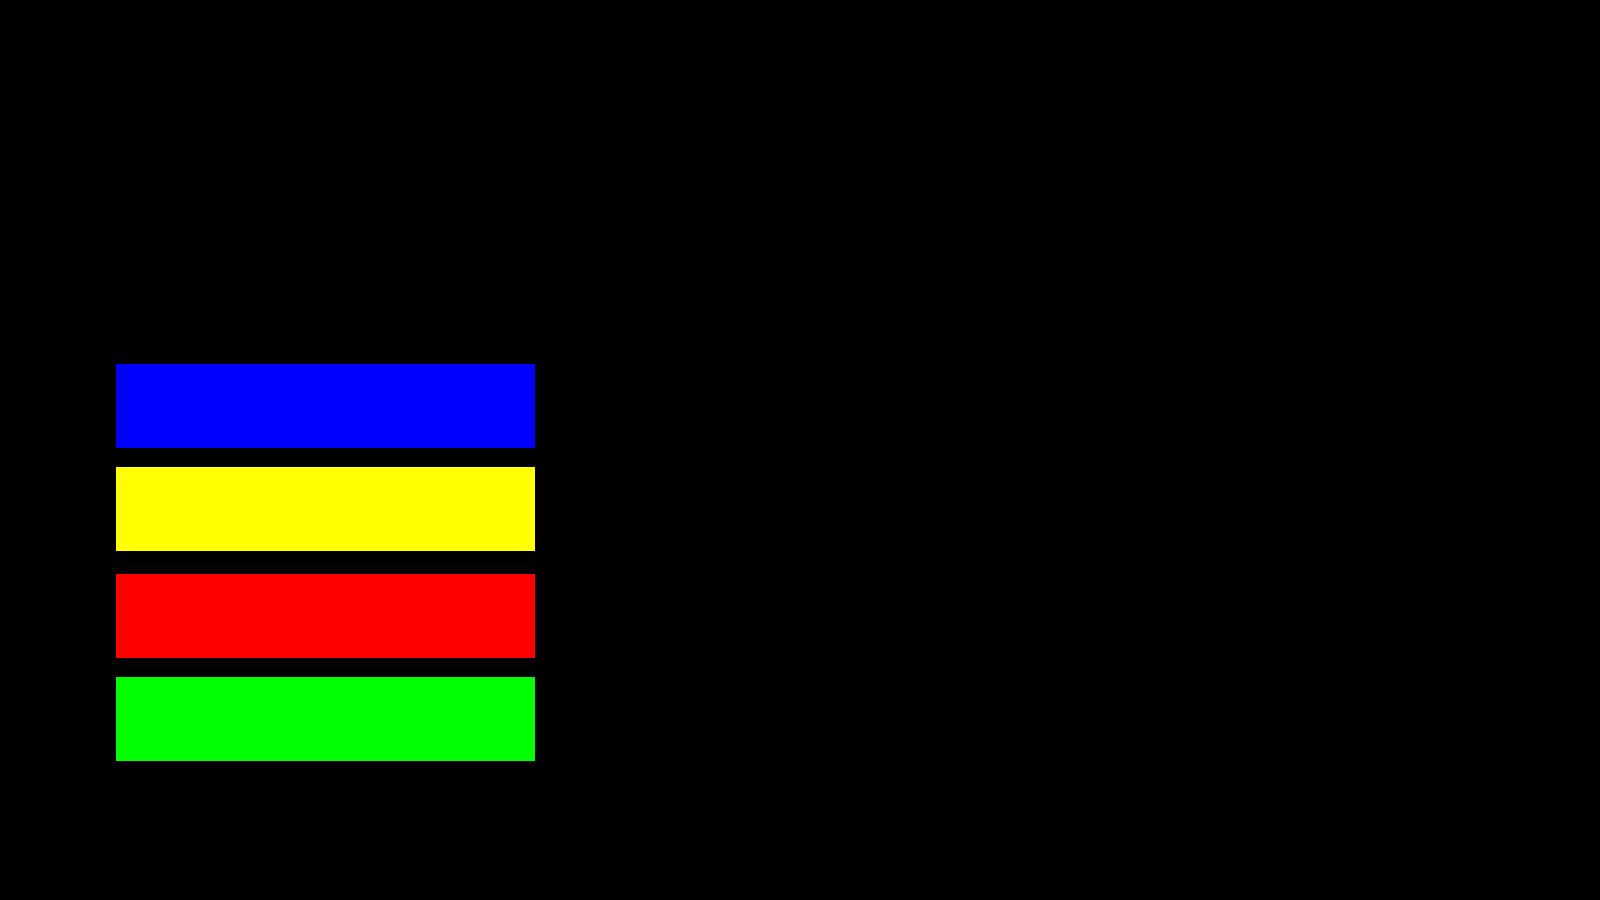
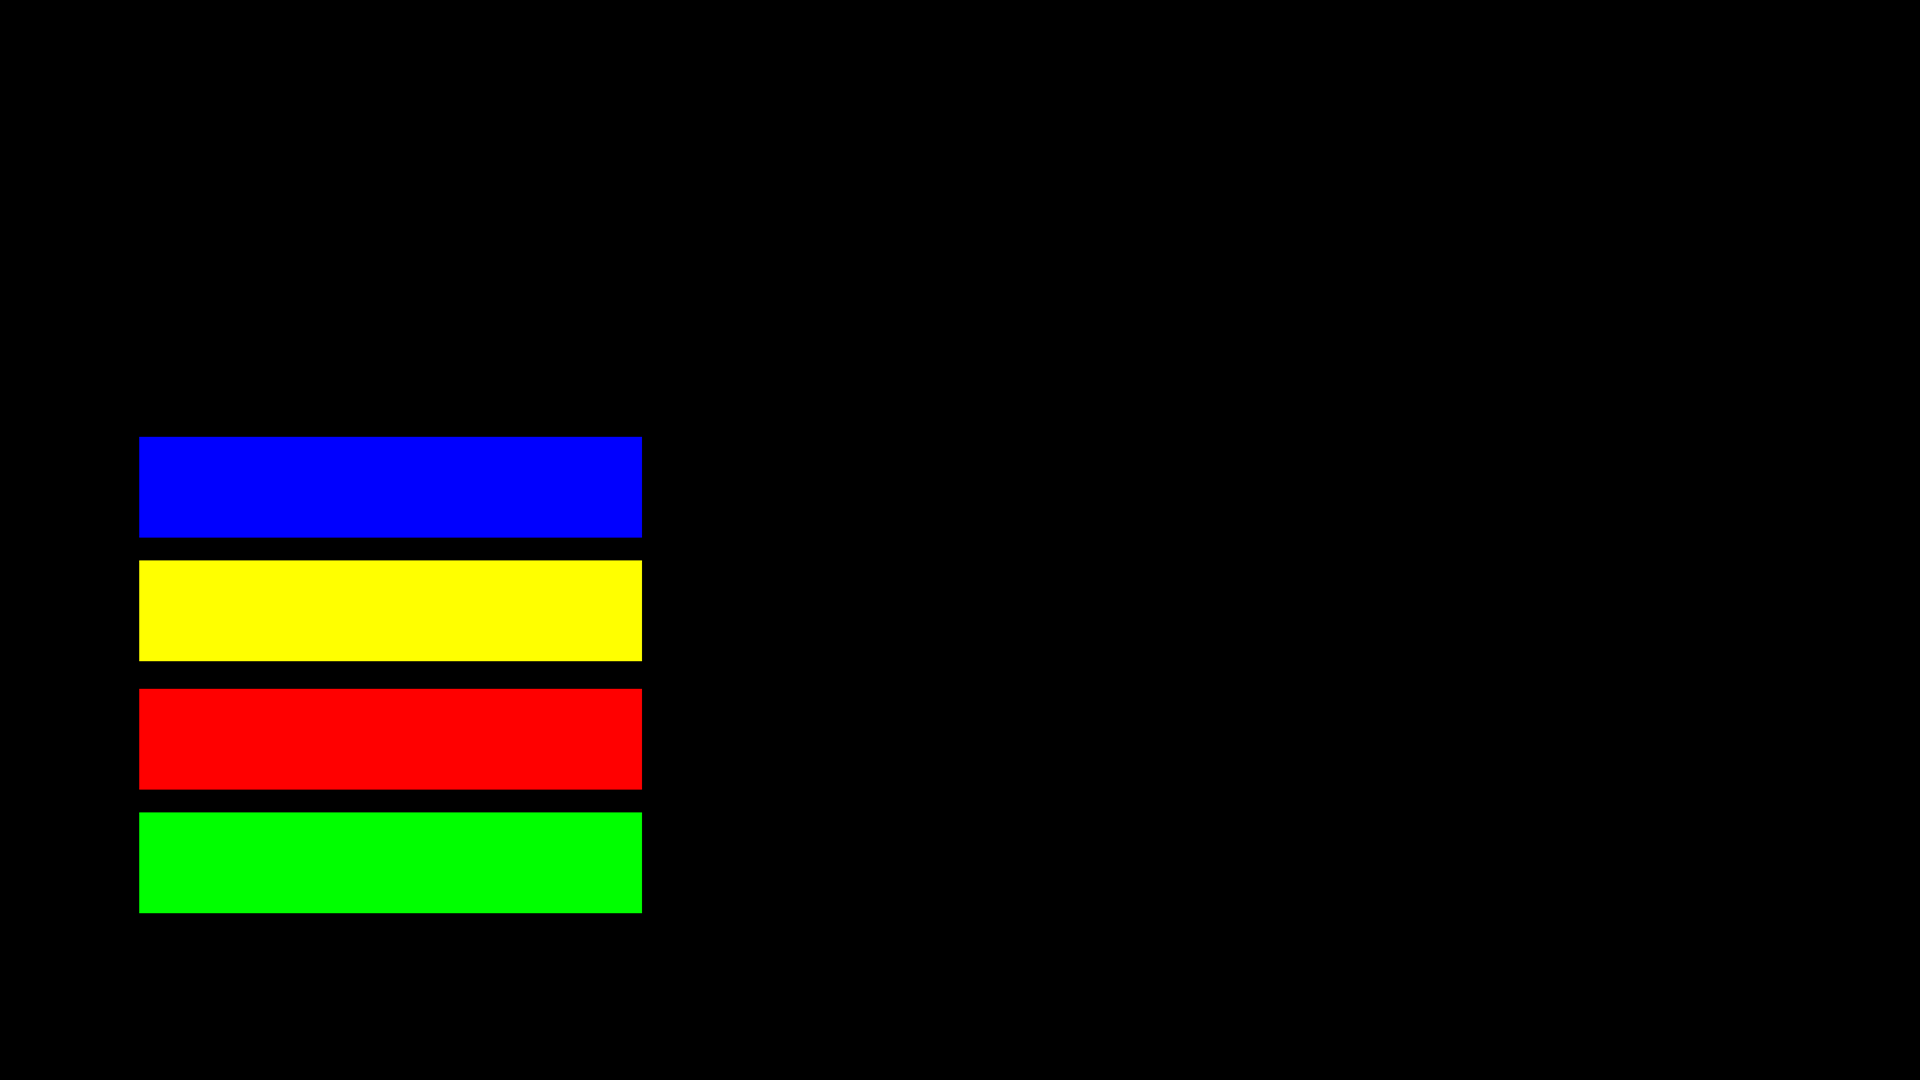
Atualizado Sistema de Resolução

Changed region(s): [[0.0938, 0.4978, 0.3125, 0.5289]]

diff --git a/Telas.py b/Telas.py
@@ -1,24 +1,55 @@
 #Arquivo que controla as telas do Jogo
 import pygame
-from Default import *
+from Configs import *
 from abc import ABC, abstractmethod
+
+#Função para adequar as Imagens do Tipo Objeto a Dimensão do Jogo
+def CriarObjeto(Imagem, Multiplicador):
+	if type(Imagem) != pygame.Surface:
+		raise TypeError("Imagem não é um Surface")
+	elif type(Multiplicador) != float and type(Multiplicador) != int:
+		raise TypeError("Multiplicador não é um Número")
+	else:
+		#Dimensiona a Imagem
+		return pygame.transform.scale(Imagem, (int(Imagem.get_size()[0]*Multiplicador), int(Imagem.get_size()[1]*Multiplicador)))
+
+#Função para criar ou alterar o Plano de Fundo do Jogo
+def AtualizarPlanodeFundo(Tela, Imagem, Multiplicador):
+	if type(Tela) != pygame.Surface:
+		raise TypeError("Tela não é um Surface")
+	elif type(Imagem) != pygame.Surface:
+		raise TypeError("Imagem não é um Surface")
+	elif type(Multiplicador) != float and type(Multiplicador) != int:
+		raise TypeError("Multiplicador não é um Número")
+	elif Imagem.get_size()[0] != 1920 or Imagem.get_size()[1] != 1080:
+		raise Exception("A Imagem de Plano de Fundo tem que ser 1920 por 1080")
+	else:
+		#Dimensiona a Imagem
+		Imagem = pygame.transform.scale(Imagem, (int(Imagem.get_size()[0]*Multiplicador), int(Imagem.get_size()[1]*Multiplicador)))
+
+		#Configura a Tela
+		Tela.fill((0, 0, 0, 255)) #PRETO
+		Tela.blit(Imagem, Imagem.get_rect())
+		pygame.display.flip()
+
+		return Tela
 
 class MenuMaker(ABC):
 
-	def __init__(self, Imagens, Tamanho):
-		if "Imagem" not in Imagens or "Localização Dos Botões" not in Imagens or Imagens["Imagem"][1] != Imagens["Localização Dos Botões"][1]:
-			print("Erro-Imagem:", not("Imagem" not in Imagens))
-			print("Erro-Localização-Dos-Botões:", not("Localização Dos Botões" not in Imagens))
-			print("Erro de Tamanho:", not(Imagens["Imagem"][1] != Imagens["Localizaçã Dos Botões"][1]))
-			raise Error()
+	def __init__(self, Imagens):
+		if "Plano de fundo" not in Imagens:
+			raise FileNotFoundError("Não foi possivel identificar o arquivo do plano de fundo")
+		elif "Localização dos botões" not in Imagens:
+			raise FileNotFoundError("Não foi possivel identificar o arquivo da localização dos botões")
+		elif Imagens["Plano de fundo"].get_size() != Imagens["Localização dos botões"].get_size():
+			raise Exception("O Tamanho da imagem da localização dos botões não é igual a imagem de plano de fundo")
 		else:
 			super().__init__()
-			self.Plano_de_Fundo = pygame.transform.scale(Imagens["Imagem"][0], Tamanho)
-			self.Rect_do_Plano_de_Fundo = self.Plano_de_Fundo.get_rect()
-			self.Localização_dos_Botões = pygame.transform.scale(Imagens["Localização Dos Botões"][0], Tamanho)
+			self.Plano_de_Fundo = Imagens["Plano de fundo"]
+			self.Localização_dos_Botões = Imagens["Localização dos botões"]
 
 	#Executa a tela
-	def run(self, Tela):
+	def run(self, Tela, Multiplicador):
 		while True:
 			for event in pygame.event.get():
 
@@ -39,10 +70,7 @@ class MenuMaker(ABC):
 					if __action__ != -1:
 						return __action__
 
-			#Atualiza a Tela do Jogo
-			Tela.fill(PRETO)
-			Tela.blit(self.Plano_de_Fundo, self.Rect_do_Plano_de_Fundo)
-			pygame.display.flip()
+			AtualizarPlanodeFundo(Tela, self.Plano_de_Fundo, Multiplicador)
 
 	@abstractmethod
 	def __action__(self, Cor_selecionada):
@@ -50,8 +78,8 @@ class MenuMaker(ABC):
 
 class Menu_Principal(MenuMaker):
 
-	def __init__(self, Imagens, Tamanho):
-		super().__init__(Imagens, Tamanho)
+	def __init__(self, Imagens):
+		super().__init__(Imagens)
 
 	def __action__(self, Cor_selecionada):
 		if Cor_selecionada == AZUL:
@@ -67,8 +95,8 @@ class Menu_Principal(MenuMaker):
 
 class Menu_De_Opções(MenuMaker):
 
-	def __init__(self, Imagens, Tamanho):
-		super().__init__(Imagens, Tamanho)
+	def __init__(self, Imagens):
+		super().__init__(Imagens)
 
 	def __action__(self, Cor_selecionada):
 		if Cor_selecionada == AZUL:
@@ -82,8 +110,8 @@ class Menu_De_Opções(MenuMaker):
 
 class Menu_De_Como_Jogar(MenuMaker):
 
-	def __init__(self, Imagens, Tamanho):
-		super().__init__(Imagens, Tamanho)
+	def __init__(self, Imagens):
+		super().__init__(Imagens)
 
 	def __action__(self, Cor_selecionada):
 		if Cor_selecionada == AMARELO:
@@ -94,8 +122,8 @@ class Menu_De_Como_Jogar(MenuMaker):
 #TODO PENSAR MELHOR COMO FAZER
 class Menu_De_Video(MenuMaker):
 
-	def __int__(self, Imagens, Tamanho):
-		super().__init__(Imagens, Tamanho)
+	def __int__(self, Imagens):
+		super().__init__(Imagens)
 
 	def __action__(self, Cor_selecionada):
 		if Cor_selecionada == AZUL:

diff --git a/Jogo.py b/Jogo.py
@@ -7,7 +7,7 @@
 
 import pygame
 import Telas
-from Default import *
+from Configs import *
 from ImageController import LoadImagens
 from FileController import YamlFile
 
@@ -34,14 +34,14 @@ pygame.display.set_caption(config.getString("Nome do Jogo", default_value="An Un
 if config.getInt("Nível de Resolução do Jogo", default_value=4) > 6 or config.getInt("Nível de Resolução do Jogo") < 1:
 	config.set("Nível de Resolução do Jogo", 4)
 
-RESOLUÇÃO = RESOLUÇÕES[config.getInt("Nível de Resolução do Jogo")]
-DIVISOR = DIVISORES[config.getInt("Nível de Resolução do Jogo")]
-
 #Cria a Tela ultilizando a Resolução do Jogo
 if config.getBoolean("Tela Cheia", default_value=False):
-	Tela = pygame.display.set_mode(RESOLUÇÃO, flags=pygame.FULLSCREEN)
+	Tela = pygame.display.set_mode(RESOLUÇÕES[config.getInt("Nível de Resolução do Jogo")], flags=pygame.FULLSCREEN)
 else:
-	Tela = pygame.display.set_mode(RESOLUÇÃO)
+	Tela = pygame.display.set_mode(RESOLUÇÕES[config.getInt("Nível de Resolução do Jogo")])
+
+#Define o tamanho das Imagens
+MULTIPLICADOR = MULTIPLICADORES[config.getInt("Nível de Resolução do Jogo")]
 
 #Todas As Imagens Transformadas
 all_sprites = pygame.sprite.Group()
@@ -61,13 +61,13 @@ try:
         if Estado == SAIR:
             break
         elif Estado == MENU_PRINCIPAL:
-            Estado = Telas.Menu_Principal(Imagens.get("Menu Principal"), RESOLUÇÃO).run(Tela)
+            Estado = Telas.Menu_Principal(Imagens.get("Menu Principal")).run(Tela, MULTIPLICADOR)
         elif Estado == MENU_DAS_OPÇÕES:
-            Estado = Telas.Menu_De_Opções(Imagens.get("Menu de Opções"), RESOLUÇÃO).run(Tela)
+            Estado = Telas.Menu_De_Opções(Imagens.get("Menu de Opções")).run(Tela, MULTIPLICADOR)
         elif Estado == MENU_DE_COMO_JOGAR:
-            Estado = Telas.Menu_De_Como_Jogar(Imagens.get("Menu de Como Jogar"), RESOLUÇÃO).run(Tela)
+            Estado = Telas.Menu_De_Como_Jogar(Imagens.get("Menu de Como Jogar")).run(Tela, MULTIPLICADOR)
         elif Estado == MENU_DE_VIDEO:
-            Estado = Telas.Menu_De_Video(Imagens.get("Menu de Vídeo"), RESOLUÇÃO).run(Tela)
+            Estado = Telas.Menu_De_Video(Imagens.get("Menu de Vídeo")).run(Tela, MULTIPLICADOR)
 finally:
 	pygame.quit()
 	#Salvar o Arquivo

diff --git a/Configs.py b/Configs.py
@@ -1,0 +1,52 @@
+from os import path
+
+#Arquivo das configurações do Jogo
+
+#Diretorios
+
+#Diretório Principal (Diretorio Pai)
+Dir_Principal = path.join(path.dirname(__file__), "Configurações")
+
+#Diretório das Imagens
+Dir_Imagens = path.join(Dir_Principal, "Imagens")
+
+#Diretório do Arquivo Config.yml
+Dir_Opções = path.join(Dir_Principal, "Opções")
+
+#Resoluções do Jogo todas 16:9
+RESOLUÇÕES = {
+	1 : (640, 360),
+	2 : (960, 540),
+	3 : (1024, 576),
+	4 : (1280, 720),
+	5 : (1600, 900),
+	6 : (1920, 1080)
+}
+
+#Transformadores para a escala dos objetos
+MULTIPLICADORES = {
+	1 : 3,
+	2 : 2,
+	3 : 1.6/3,
+	4 : 2/3,
+	5 : 2.5/3,
+	6 : 1
+}
+
+#Cores base
+BRANCO = (255, 255, 255, 255)
+PRETO = (0, 0, 0, 255)
+VERMELHO = (255, 0, 0, 255)
+VERDE = (0, 255, 0, 255)
+AZUL = (0, 0, 255, 255)
+AMARELO = (255, 255, 0, 255)
+
+#Estados do Jogo
+SEM_MUDANÇA = -1
+MENU_PRINCIPAL = 0
+SAIR = 1
+MENU_DAS_OPÇÕES = 2
+MENU_DE_COMO_JOGAR = 3
+MENU_DE_VIDEO = 4
+NOVO_JOGO = 2
+CARREGAR_JOGO = 3

diff --git a/ImageController.py b/ImageController.py
@@ -17,15 +17,8 @@ class LoadImagens():
 		for file in os.listdir(FilePath):
 			if file.find(".") > 0:
 				if file.endswith(".png") or file.endswith(".jpg") or file.endswith(".gif") or file.endswith(".bmp") or file.endswith(".pcx") or file.endswith(".tga") or file.endswith(".tif") or file.endswith(".lbm") or file.endswith(".pbm") or file.endswith(".pgm") or file.endswith(".ppm") or file.endswith(".xpm"):  
-					if file[:-4] in maps:
-						continue
-					else:
-						imagem = pygame.image.load(FilePath + "/" + file)
-						Centro = (imagem.get_size()[0]/2, imagem.get_size()[1]/2)
-
-						maps[file[:-4]] = [imagem, Centro]
-				else:
-					continue
+					if not file[:-4] in maps:
+						maps[file[:-4]] = pygame.image.load(FilePath + "/" + file)
 			else:
 				maps[file] = self.__loadFile__(FilePath + "/" + file, {})
 		return maps
